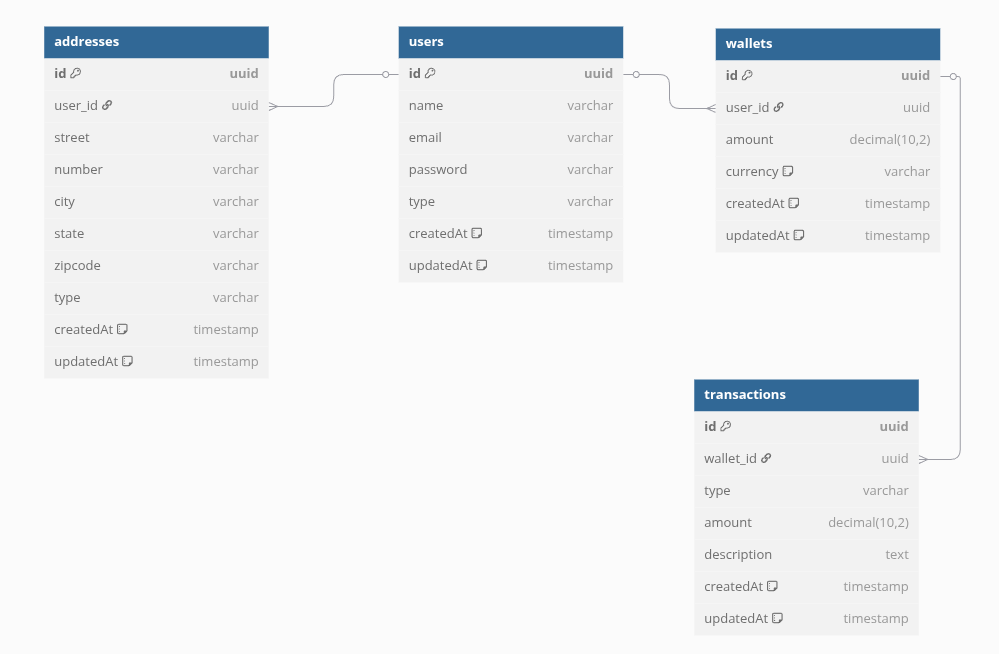
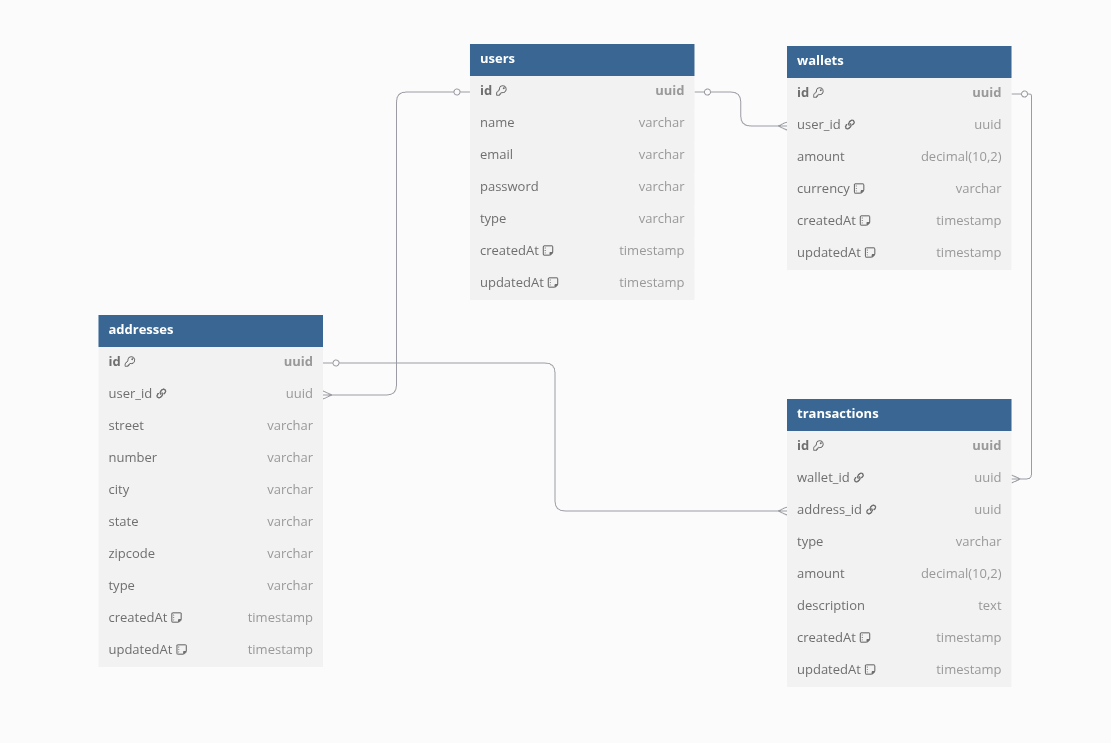
feature: add address

diff --git a/src/main/kotlin/br/com/projects/fooddelivery/infrastructure/database/model/UserEntity.kt b/src/main/kotlin/br/com/projects/fooddelivery/infrastructure/database/model/UserEntity.kt
@@ -3,8 +3,17 @@ package br.com.projects.fooddelivery.infrastructure.database.model
 import br.com.projects.fooddelivery.application.dto.UserRequest
 import br.com.projects.fooddelivery.domain.entities.User
 import br.com.projects.fooddelivery.infrastructure.enums.UserType
-import jakarta.persistence.*
-import java.util.*
+import jakarta.persistence.CascadeType
+import jakarta.persistence.Column
+import jakarta.persistence.Entity
+import jakarta.persistence.EnumType
+import jakarta.persistence.Enumerated
+import jakarta.persistence.GeneratedValue
+import jakarta.persistence.GenerationType
+import jakarta.persistence.Id
+import jakarta.persistence.JoinColumn
+import jakarta.persistence.OneToOne
+import jakarta.persistence.Table
 
 @Entity
 @Table(name = "USERS")
@@ -32,6 +41,10 @@ class UserEntity(
     @Enumerated(EnumType.STRING)
     @Column
     var type: UserType,
+
+    @OneToOne(cascade = [CascadeType.ALL], orphanRemoval = true)
+    @JoinColumn(name = "address_id")
+    var address: AddressEntity?,
 ) {
 
     fun merger(userRequest: UserRequest): UserEntity {
@@ -41,9 +54,22 @@ class UserEntity(
             if (email.isNotBlank()) this@UserEntity.email = email
             if (password.isNotBlank()) this@UserEntity.password = password
             if (type.name.isNotBlank()) this@UserEntity.type = type
+            this@UserEntity.address = AddressEntity(
+                null,
+                address.street,
+                address.number,
+                address.city,
+                address.state,
+                address.zipcode,
+                address.type
+            )
         }
 
         return this;
+    }
+
+    fun changeAddress(address: AddressEntity?) {
+        this.address = address;
     }
 
     fun toDomain(): User {
@@ -54,7 +80,8 @@ class UserEntity(
             email,
             password,
             type,
-            activate
+            activate,
+            address?.toDomain()
         );
     }
 

diff --git a/src/main/kotlin/br/com/projects/fooddelivery/domain/vo/Address.kt b/src/main/kotlin/br/com/projects/fooddelivery/domain/vo/Address.kt
@@ -1,0 +1,60 @@
+package br.com.projects.fooddelivery.domain.vo
+
+import br.com.projects.fooddelivery.application.dto.AddressResponse
+import br.com.projects.fooddelivery.infrastructure.database.model.AddressEntity
+import br.com.projects.fooddelivery.infrastructure.database.model.UserEntity
+import br.com.projects.fooddelivery.infrastructure.enums.AddressType
+
+class Address(
+    private var street: String,
+    private var number: String,
+    private var city: String,
+    private var state: String,
+    private var zipcode: String,
+    private var type: AddressType
+) {
+
+    init {
+        this.validation();
+    }
+
+    private fun validation(): Boolean {
+        val condition =
+                street.isNotBlank() &&
+                number.isNotBlank() &&
+                city.isNotBlank() &&
+                state.isNotBlank() &&
+                zipcode.isNotBlank() &&
+                AddressType.isValid(type.name);
+
+        if (!condition) {
+            throw IllegalArgumentException("Invalid param")
+        }
+
+        return true;
+    }
+
+    fun toEntity(userEntity: UserEntity): AddressEntity {
+        return AddressEntity(
+            null,
+            street,
+            number,
+            city,
+            state,
+            zipcode,
+            type,
+        );
+    }
+
+    fun toResponse(): AddressResponse {
+        return AddressResponse(
+            street,
+            number,
+            city,
+            state,
+            zipcode,
+            type
+        )
+    }
+
+}

diff --git a/src/main/kotlin/br/com/projects/fooddelivery/domain/entities/User.kt b/src/main/kotlin/br/com/projects/fooddelivery/domain/entities/User.kt
@@ -1,9 +1,9 @@
 package br.com.projects.fooddelivery.domain.entities
 
 import br.com.projects.fooddelivery.application.dto.UserResponse
+import br.com.projects.fooddelivery.domain.vo.Address
 import br.com.projects.fooddelivery.infrastructure.database.model.UserEntity
 import br.com.projects.fooddelivery.infrastructure.enums.UserType
-import java.util.UUID
 
 class User(
     private var id: String? = null,
@@ -12,7 +12,8 @@ class User(
     private var email: String,
     private var password: String,
     private var type: UserType,
-    private var isActive: Boolean = false
+    private var isActive: Boolean = false,
+    private var address: Address?
 ) {
 
     init {
@@ -47,18 +48,26 @@ class User(
     }
 
     fun toResponse(): UserResponse {
-        return UserResponse(id, name, secondName, type, isActive);
+        val address = address?.toResponse();
+        return UserResponse(id, name, secondName, type, isActive, address);
     }
 
     fun toModel(): UserEntity {
-        return UserEntity(
+        val userEntity = UserEntity(
             id = null,
             name = name,
             secondName = secondName,
             email = email,
             password = password,
             type= type,
-            activate = isActive
+            activate = isActive,
+            address = null,
         );
+
+        val address = address?.toEntity(userEntity);
+
+        userEntity.changeAddress(address);
+
+        return userEntity;
     }
 }

diff --git a/src/main/kotlin/br/com/projects/fooddelivery/infrastructure/database/model/AddressEntity.kt b/src/main/kotlin/br/com/projects/fooddelivery/infrastructure/database/model/AddressEntity.kt
@@ -1,0 +1,53 @@
+package br.com.projects.fooddelivery.infrastructure.database.model
+
+
+import br.com.projects.fooddelivery.domain.vo.Address
+import br.com.projects.fooddelivery.infrastructure.enums.AddressType
+import jakarta.persistence.Column
+import jakarta.persistence.Entity
+import jakarta.persistence.EnumType
+import jakarta.persistence.Enumerated
+import jakarta.persistence.GeneratedValue
+import jakarta.persistence.GenerationType
+import jakarta.persistence.Id
+import jakarta.persistence.Table
+
+@Entity
+@Table(name = "ADDRESS")
+class AddressEntity(
+    @Id
+    @GeneratedValue(strategy = GenerationType.UUID)
+    @Column
+    private val id: String?,
+
+    @Column
+    private var street: String,
+
+    @Column(name = "address_number")
+    private var number: String,
+
+    @Column
+    private var city: String,
+
+    @Column
+    private var state: String,
+
+    @Column
+    private var zipcode: String,
+
+    @Column
+    @Enumerated(EnumType.STRING)
+    private var type: AddressType,
+) {
+
+    fun toDomain(): Address {
+        return Address(
+            street,
+            number,
+            city,
+            state,
+            zipcode,
+            type
+        );
+    }
+}

diff --git a/src/main/kotlin/br/com/projects/fooddelivery/domain/service/UserService.kt b/src/main/kotlin/br/com/projects/fooddelivery/domain/service/UserService.kt
@@ -3,6 +3,7 @@ package br.com.projects.fooddelivery.domain.service
 import br.com.projects.fooddelivery.application.dto.UserRequest
 import br.com.projects.fooddelivery.application.dto.UserResponse
 import br.com.projects.fooddelivery.domain.entities.User
+import br.com.projects.fooddelivery.domain.vo.Address
 import br.com.projects.fooddelivery.infrastructure.database.model.UserEntity
 import br.com.projects.fooddelivery.infrastructure.database.repository.UserRepository
 import br.com.projects.fooddelivery.infrastructure.exception.ConflictException
@@ -25,7 +26,15 @@ class UserService(
             secondName = userRequest.secondName,
             email = userRequest.email,
             password = userRequest.password,
-            type = userRequest.type);
+            type = userRequest.type,
+            address = Address(
+                userRequest.address.street,
+                userRequest.address.number,
+                userRequest.address.city,
+                userRequest.address.state,
+                userRequest.address.zipcode,
+                userRequest.address.type
+            ));
 
         val entity = userRepository.save(user.toModel());
 

diff --git a/src/main/kotlin/br/com/projects/fooddelivery/infrastructure/database/repository/AddressRepository.kt b/src/main/kotlin/br/com/projects/fooddelivery/infrastructure/database/repository/AddressRepository.kt
@@ -1,0 +1,9 @@
+package br.com.projects.fooddelivery.infrastructure.database.repository
+
+import br.com.projects.fooddelivery.infrastructure.database.model.AddressEntity
+import org.springframework.data.jpa.repository.JpaRepository
+import org.springframework.stereotype.Repository
+
+@Repository
+interface AddressRepository: JpaRepository<AddressEntity, String> {
+}

diff --git a/src/main/kotlin/br/com/projects/fooddelivery/application/dto/AddressResponse.kt b/src/main/kotlin/br/com/projects/fooddelivery/application/dto/AddressResponse.kt
@@ -1,0 +1,12 @@
+package br.com.projects.fooddelivery.application.dto
+
+import br.com.projects.fooddelivery.infrastructure.enums.AddressType
+
+data class AddressResponse(
+    val street: String,
+    val number: String,
+    val city: String,
+    val state: String,
+    val zipcode: String,
+    val type: AddressType
+)

diff --git a/src/main/kotlin/br/com/projects/fooddelivery/application/dto/AddressRequest.kt b/src/main/kotlin/br/com/projects/fooddelivery/application/dto/AddressRequest.kt
@@ -1,0 +1,12 @@
+package br.com.projects.fooddelivery.application.dto
+
+import br.com.projects.fooddelivery.infrastructure.enums.AddressType
+
+data class AddressRequest(
+    val street: String,
+    val number: String,
+    val city: String,
+    val state: String,
+    val zipcode: String,
+    val type: AddressType
+)

diff --git a/src/main/kotlin/br/com/projects/fooddelivery/infrastructure/enums/AddressType.kt b/src/main/kotlin/br/com/projects/fooddelivery/infrastructure/enums/AddressType.kt
@@ -1,0 +1,13 @@
+package br.com.projects.fooddelivery.infrastructure.enums
+
+enum class AddressType {
+    HOME,
+    WORK,
+    APARTMENT;
+
+    companion object {
+        fun isValid(type: String): Boolean {
+            return entries.any() { it.name.equals(type, ignoreCase = true) }
+        }
+    }
+}

diff --git a/src/main/kotlin/br/com/projects/fooddelivery/application/dto/UserResponse.kt b/src/main/kotlin/br/com/projects/fooddelivery/application/dto/UserResponse.kt
@@ -7,5 +7,6 @@ data class UserResponse(
     val name: String,
     val secondName: String,
     val type: UserType,
-    val isActivate: Boolean
+    val isActivate: Boolean,
+    val address: AddressResponse?
 )

diff --git a/src/main/kotlin/br/com/projects/fooddelivery/application/dto/UserRequest.kt b/src/main/kotlin/br/com/projects/fooddelivery/application/dto/UserRequest.kt
@@ -7,5 +7,6 @@ data class UserRequest(
     val secondName: String,
     val email: String,
     val password: String,
-    val type: UserType
+    val type: UserType,
+    val address: AddressRequest
 )
